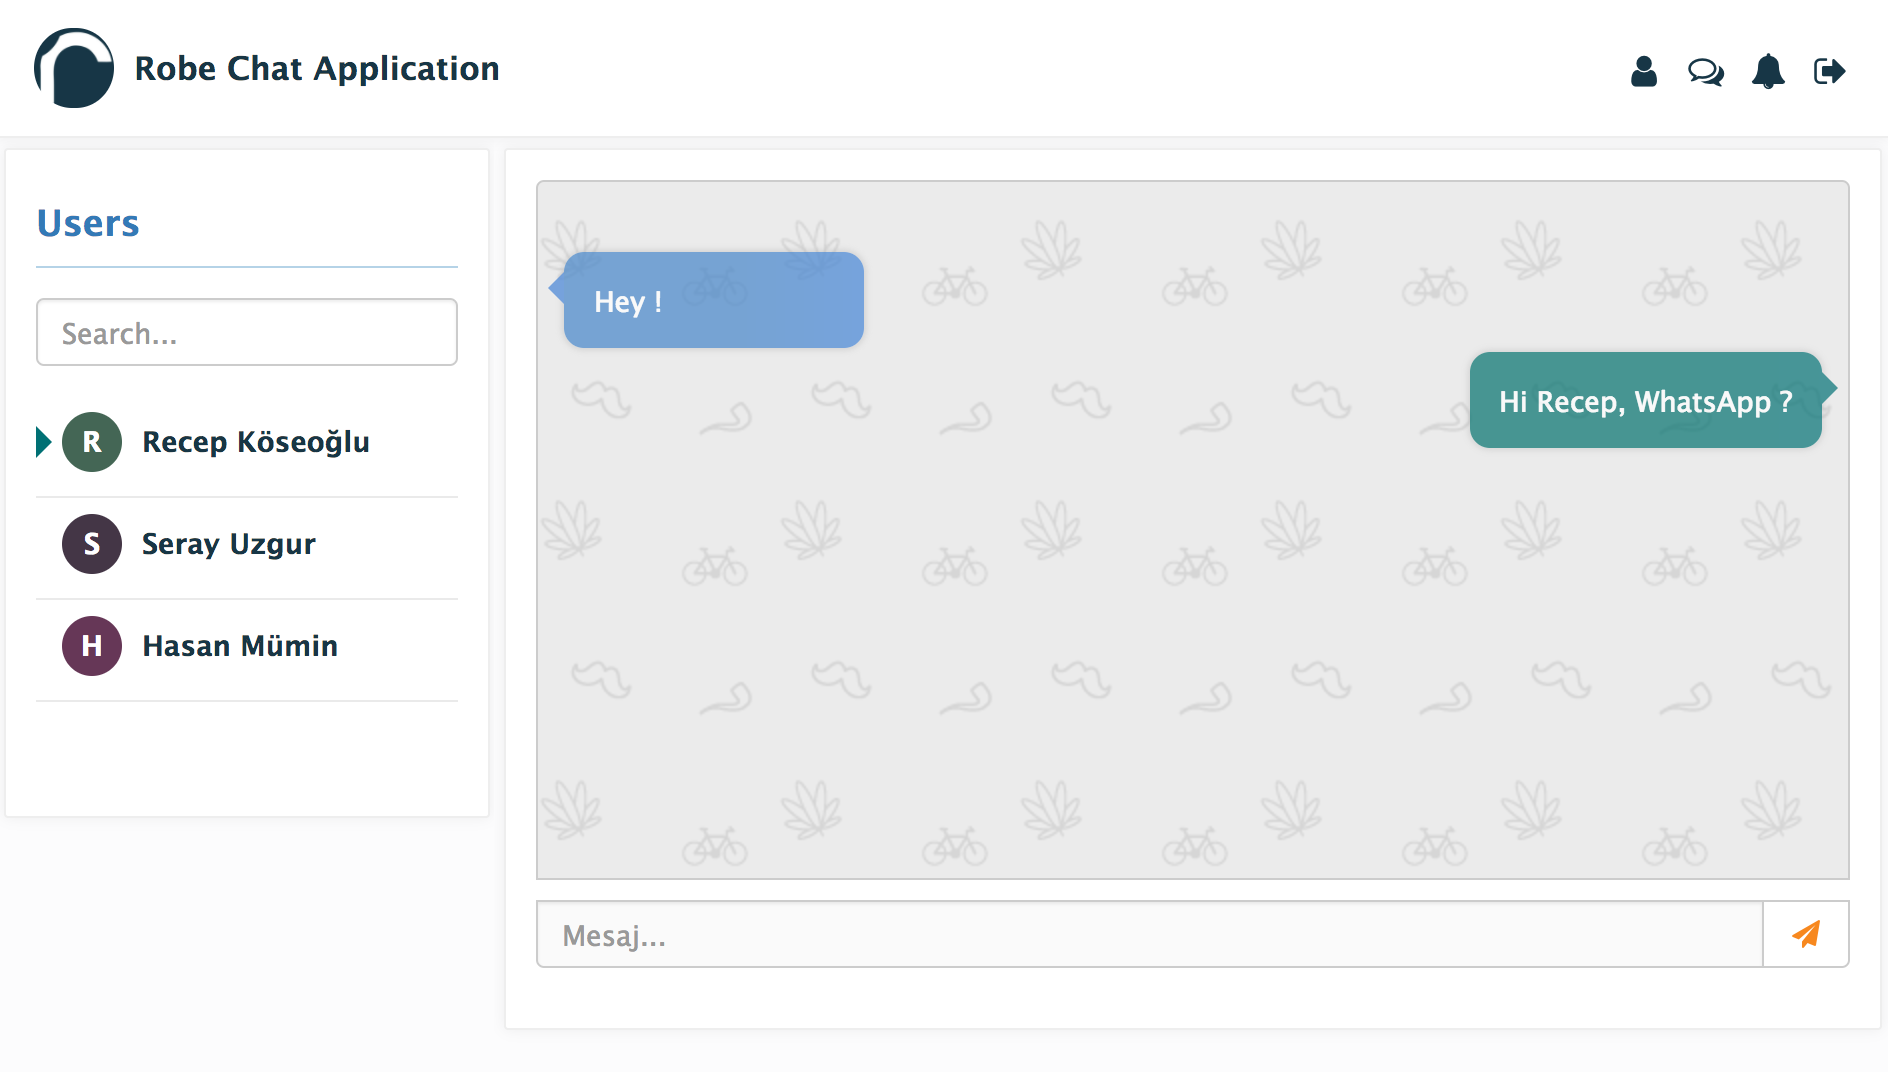
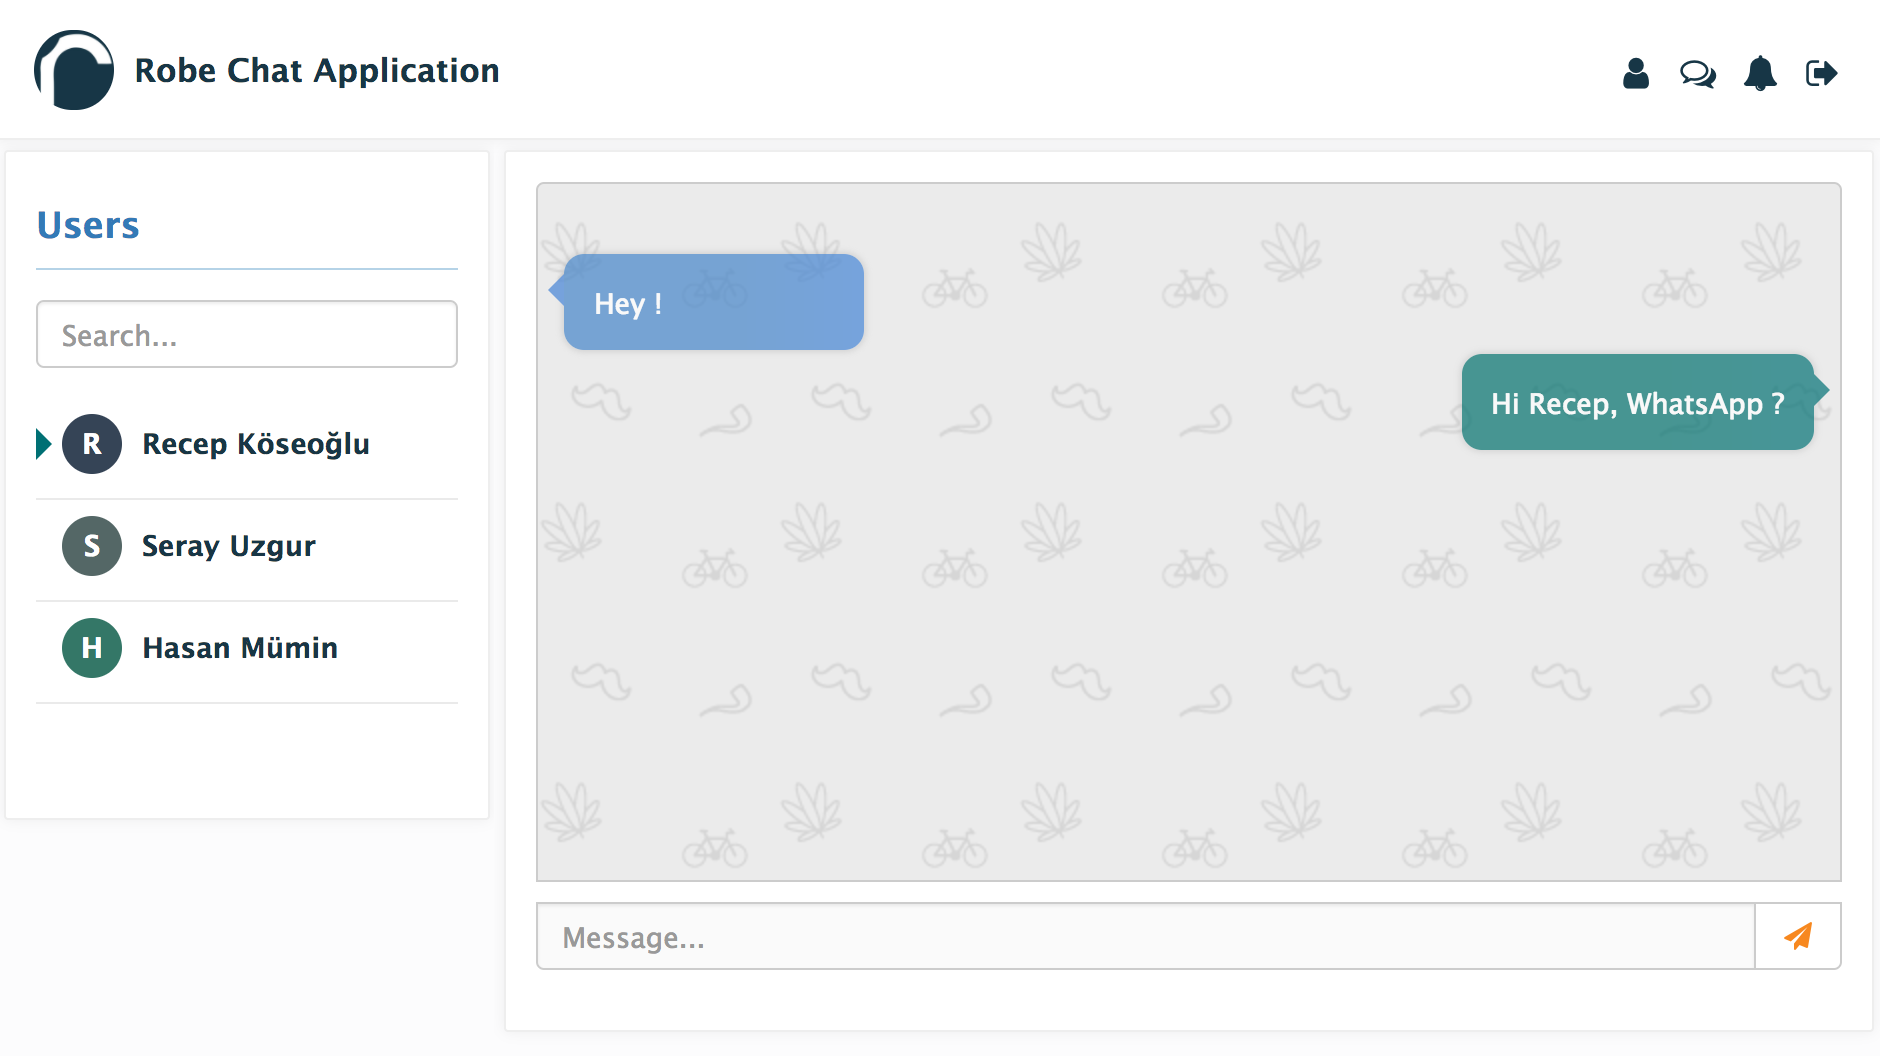
hange the text usage to i18n structure

diff --git a/robe-chat-ui/src/app/users/Users.jsx b/robe-chat-ui/src/app/users/Users.jsx
@@ -1,5 +1,6 @@
 import React from "react";
 import ShallowComponent from "robe-react-commons/lib/components/ShallowComponent";
+import Application from "robe-react-commons/lib/application/Application";
 import WebSocketStore from "stores/WebSocketStore";
 import Card from "app/card/Card";
 import AjaxRequest from "robe-react-commons/lib/connections/AjaxRequest";
@@ -36,11 +37,11 @@ export default class Users extends ShallowComponent {
 
     render():Object {
         return (
-            <Card header="Users" style={{width:243,paddingBottom:25}}>
+            <Card header={Application.i18n("user").header} style={{width:243,paddingBottom:25}}>
                 <TextInput
                     value={this.state.search}
                     name="search"
-                    placeholder="Search..."
+                    placeholder={Application.i18n("user").placeHolder}
                     onChange={this.__handleChange}/>
                 {this.__renderUserList()}
             </Card>

diff --git a/robe-chat-ui/src/app/chat/Chat.jsx b/robe-chat-ui/src/app/chat/Chat.jsx
@@ -1,5 +1,6 @@
 import React from "react";
 import ShallowComponent from "robe-react-commons/lib/components/ShallowComponent";
+import Application from "robe-react-commons/lib/application/Application";
 import AjaxRequest from "robe-react-commons/lib/connections/AjaxRequest";
 import WebSocketStore from "stores/WebSocketStore";
 import TextInput from "robe-react-ui/lib/inputs/TextInput";
@@ -46,7 +47,7 @@ export default class Chat extends ShallowComponent {
                     value={this.state.message}
                     style={{borderTopLeftRadius:0,borderTopRightRadius:0,background:"#fafafa"}}
                     name="message"
-                    placeholder="Mesaj..."
+                    placeholder={Application.i18n("chat").placeHolder}
                     onKeyPress={this.__onKeyPress}
                     inputGroupRight={
                         <InputGroup.Button style={{borderTopRightRadius:0}}>

diff --git a/robe-chat-ui/src/app/welcome/Welcome.js b/robe-chat-ui/src/app/welcome/Welcome.js
@@ -1,12 +1,13 @@
 import React from "react";
 import ShallowComponent from "robe-react-commons/lib/components/ShallowComponent";
+import Application from "robe-react-commons/lib/application/Application";
 import Card from "app/card/Card";
 
 export default class Welcome extends ShallowComponent {
     render():Object {
         return (
-            <Card header="Robe Chat Sample">
-                <p>Welcome to the Robe-Chat.</p>
+            <Card header={Application.i18n("welcome").header}>
+                <p>{Application.i18n("welcome").description}</p>
                 <br/>
             </Card>
         );

diff --git a/robe-chat-ui/src/index.js b/robe-chat-ui/src/index.js
@@ -2,9 +2,11 @@ import React from "react";
 import {render} from "react-dom";
 import Switch from "app/Switch";
 import Application from "robe-react-commons/lib/application/Application";
+import Text from "./Text.json";
 
 const app = document.getElementById("app");
 
 Application.setBaseUrlPath("http://127.0.0.1:8082/robe-chat");
+Application.loadI18n(Text);
 
 render((<Switch />), app);

diff --git a/robe-chat-ui/CHANGELOG.md b/robe-chat-ui/CHANGELOG.md
@@ -3,6 +3,7 @@
 ## 1.0.1 Developing
 * added WebSocketStore to robe-react-commons
 * change files libs/card to app/card
+* change the text usage to i18n structure
 
 
 
